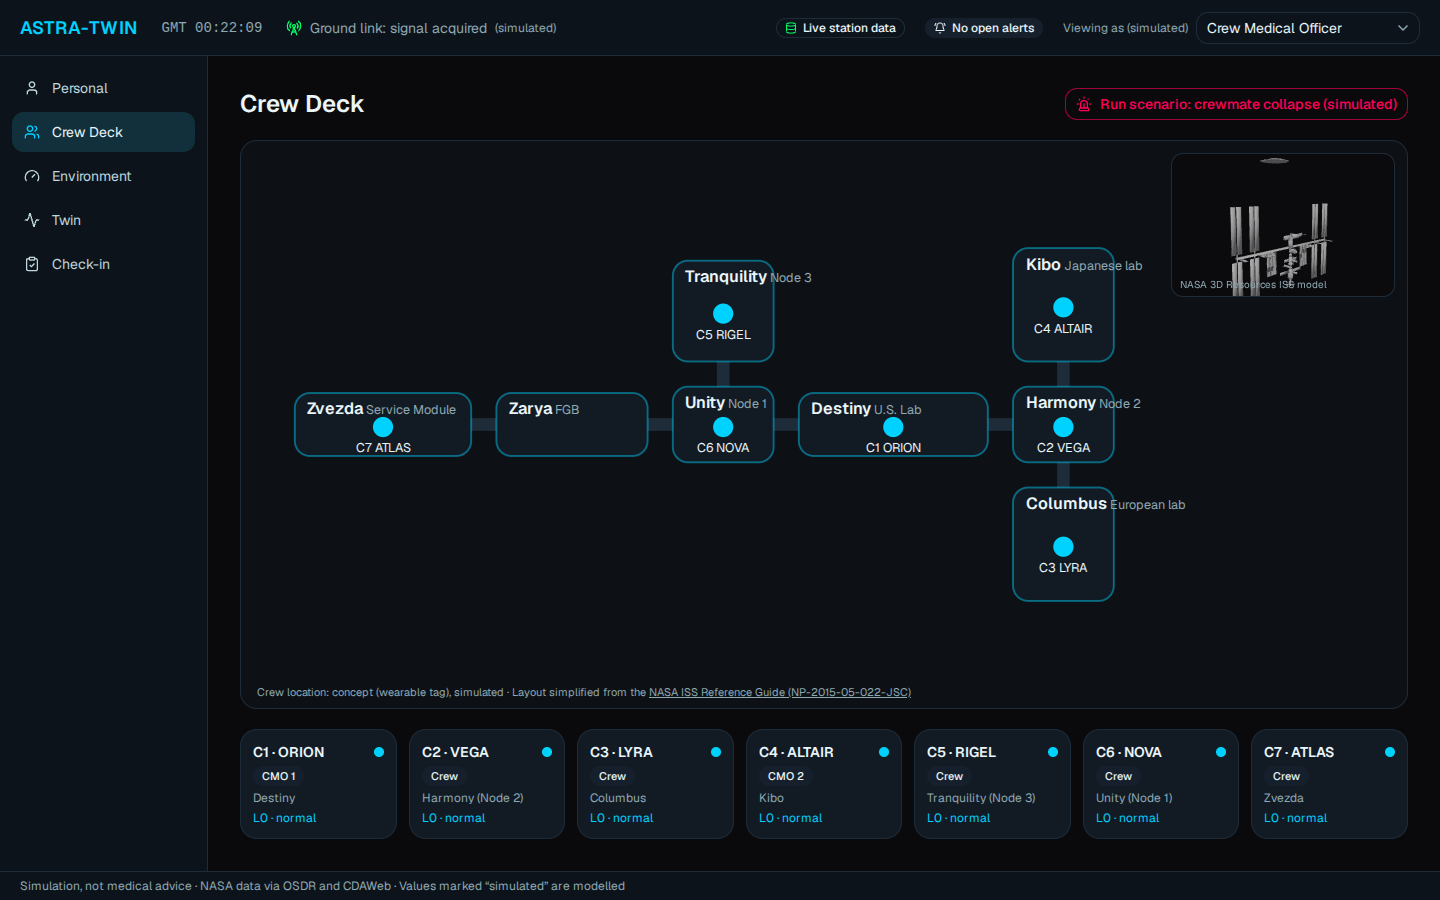
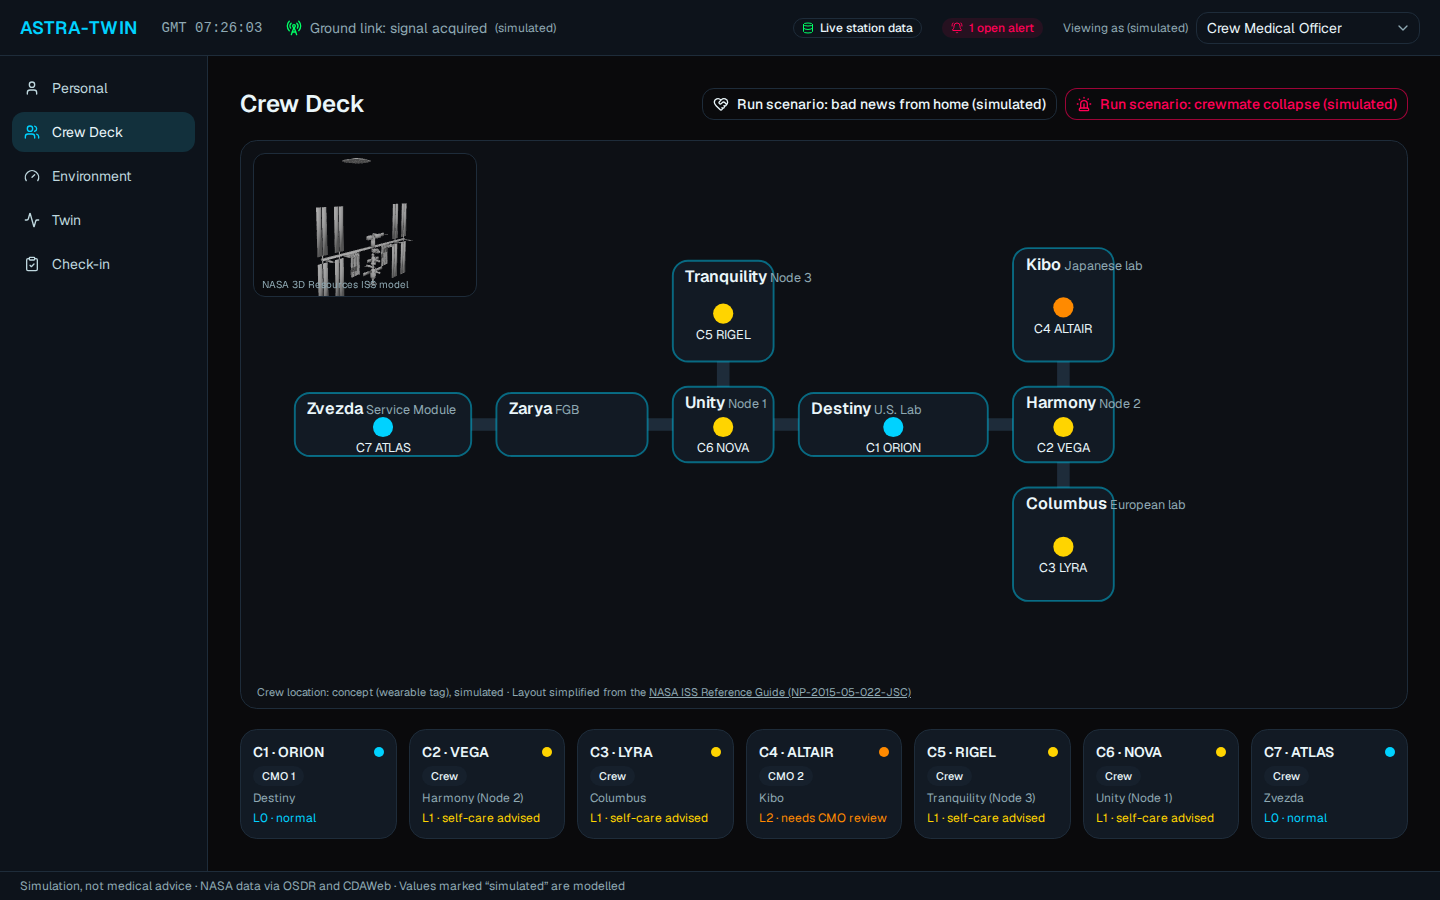
docs: retake the README screenshots on the current app (#77)
Ten screenshots from the current app with the live backend: updated crew-deck, personal, emergency, environment, twin and companion; new partner-dose (#13), bad-news-crew and bad-news-self (#75), support-alert (#72). The README grid tells the story in five rows.

diff --git a/README.md b/README.md
@@ -6,13 +6,19 @@ NASA Space Apps Challenge 2026 · *Create Health Monitoring Software for Astrona
 
 > Simulation, not medical advice. Values marked “simulated” are modelled.
 
+Screenshots from the running app with the live backend (2026-11-15).
+
 | Crew Deck | Personal twin |
 |---|---|
-| ![Crew Deck: the 7-person crew on a map of the ISS modules](docs/screenshots/crew-deck.png) | ![Personal screen: a low-glucose alert on the body figure, real NASA blood baselines](docs/screenshots/personal.png) |
-| **Emergency: a crewmate collapses** | **Environment: real ISS radiation, Sep 2017** |
-| ![Full-screen emergency: who, where, roles and the microgravity CPR checklist](docs/screenshots/emergency.png) | ![Environment: cabin CO2, NASA ISS dose data with the solar particle event, NASA IMM risks](docs/screenshots/environment.png) |
-| **Earth twin: forecasts and baselines** | **Private support companion** |
-| ![Twin: look-ahead slider, real ISS dose and private sleep-debt forecasts, simulated fluids and temperature, Earth Twin plan, forecast vs actual](docs/screenshots/twin.png) | ![Support companion running on a local model](docs/screenshots/companion.png) |
+| ![Crew Deck as the CMO: the 7-person crew on a map of the ISS modules, each with their level; C4 needs CMO review](docs/screenshots/crew-deck.png) | ![Personal screen: a low-glucose alert lights the blood region, next to real NASA OSDR pre-flight baselines from the Inspiration4 crew](docs/screenshots/personal.png) |
+| **Emergency: a crewmate collapses** | **Environment: real ISS radiation, Sep 2017 event** |
+| ![Full-screen emergency: who and where, proposed roles for the CMO to confirm, the microgravity CPR checklist and the emergency card](docs/screenshots/emergency.png) | ![Environment during the solar particle event: CO2 gauge with NASA limits, NASA TEPC dose rate on Sep 11, NASA IMM risks](docs/screenshots/environment.png) |
+| **Partner data: radiation in Columbus** | **Earth twin: forecasts and a support plan** |
+| ![DLR DosTel2 in the Columbus module, hosted by NASA OSDR RadLab, next to the NASA TEPC: the Sep 11 event shows in both, with the dose-rate alert below](docs/screenshots/partner-dose.png) | ![Twin for C3: look-ahead slider, private sleep debt past 18 h, real ISS dose, and the Earth Twin's 24–72 h support plan waiting for ground approval](docs/screenshots/twin.png) |
+| **Bad news from home: what the crew sees** | **Bad news from home: what C3 sees** |
+| ![Crew Deck as C2 during the private bad-news scenario: only "C3 requested reduced tasking", no reason](docs/screenshots/bad-news-crew.png) | ![C3's own Personal screen: private support steps, last night's 4.5 h and mood 28 from their check-in](docs/screenshots/bad-news-self.png) |
+| **Private support companion** | **Crisis → CMO, without the message** |
+| ![Support companion answering on a local model (phi3.5): sourced support options, no diagnosis, no drugs](docs/screenshots/companion.png) | ![CMO view: a "needs support now" band for C6 after crisis wording in the companion; who and when, never what was written](docs/screenshots/support-alert.png) |
 
 ## What it does
 

diff --git a/docs/PITCH.md b/docs/PITCH.md
@@ -147,6 +147,6 @@ Note: NASA did not disclose the medical details. Never describe it as a heart at
 
 ## Open items
 
-- Screenshots for slides 1, 3 and 4: real ones from the running app are in `docs/screenshots/` (1440×900, 2026-11-15). Slide 1: `crew-deck.png`; slide 3: `personal.png` | `crew-deck.png`; slide 4: `crew-deck.png` → `emergency.png`.
+- Screenshots for slides 1, 3 and 4: real ones from the running app with the live backend are in `docs/screenshots/` (1440×900; twin 1440×1000; partner-dose is a crop of the Environment page; retaken 2026-11-15 after #72–#76). Slide 1: `crew-deck.png`; slide 3: `personal.png` | `crew-deck.png`; slide 4: `crew-deck.png` → `emergency.png`.
 - If an AI-generated image is used anywhere, it needs a visible watermark and no NASA logo.
 - "Use of SI" must be disclosed in the submission (code and research done with SI assistance).
